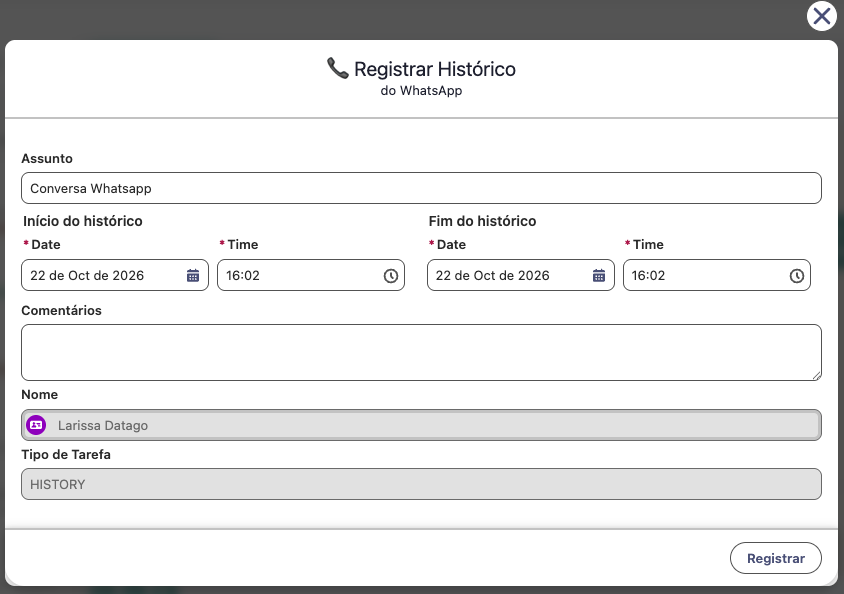
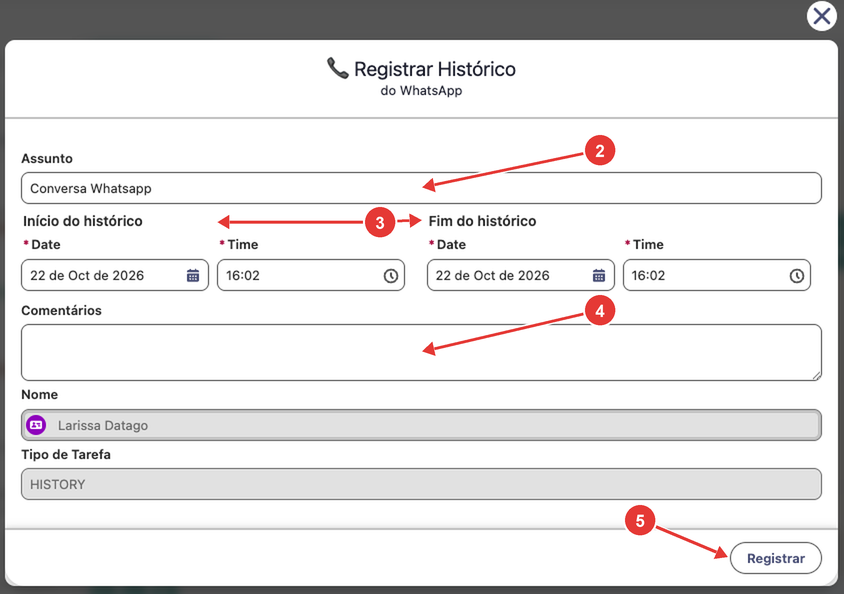
Nitzap Omni: imagens com marcações numeradas e seção de recursos de IA

diff --git a/docs/nitzap/omni.md b/docs/nitzap/omni.md
@@ -1,6 +1,8 @@
 # 02. Nitzap Omni: conversas dentro do Salesforce
 
-O Nitzap Omni é onde você conversa com os clientes pelo WhatsApp sem sair do Salesforce. Ele mostra as conversas de todas as conexões das quais você é membro, indica por qual número cada cliente falou com você e liga cada conversa ao Lead, Contato ou Conta correspondente. Este guia mostra as formas de abrir o Omni, como filtrar e ler a lista de conversas, as opções dentro de uma conversa e as suas preferências.
+O Nitzap Omni é onde você conversa com os clientes pelo WhatsApp sem sair do Salesforce. Ele mostra as conversas de todas as conexões das quais você é membro, indica por qual número cada cliente falou com você e liga cada conversa ao Lead, Contato ou Conta correspondente. Este guia mostra as formas de abrir o Omni, como filtrar e ler a lista de conversas, as opções dentro de uma conversa, os recursos de IA e as suas preferências.
+
+**Como ler as imagens:** os círculos vermelhos numerados apontam para a parte da tela que está sendo explicada. O número no círculo é o mesmo da coluna **Nº** da tabela ou da lista logo abaixo da imagem.
 
 ## Formas de visualizar as conversas
 
@@ -14,76 +16,96 @@ O Omni pode ser usado de três jeitos. As conversas são as mesmas nos três; mu
 
 ### Compacto
 
-Clique em **Nitzap**, no canto inferior esquerdo, para abrir o painel.
+Clique em **Nitzap**, no canto inferior esquerdo (onde a seta aponta), para abrir o painel.
 
 ![Omni compacto na barra de utilitários](images/omni-compacto.png)
 
 ### Ampliado
 
-No painel compacto, clique no botão de ampliar (as duas setas, no topo da lista). Para voltar ao tamanho compacto, clique no mesmo botão, que passa a se chamar **Reduzir painel**. O Nitzap lembra no navegador qual tamanho você usou por último.
+No painel compacto, clique no botão de ampliar, no topo da lista. Para voltar ao tamanho compacto, clique no mesmo botão, que passa a se chamar **Reduzir painel**. O Nitzap lembra no navegador qual tamanho você usou por último.
 
 ![Omni ampliado, com a conversa ao lado da lista](images/omni-ampliado.png)
 
+| Nº | O que é |
+| :---: | --- |
+| 1 | Botão **Ampliar painel / Reduzir painel**. |
+| 2 | A conversa aberta, em uma aba ao lado da lista. O resto do Salesforce continua acessível atrás do painel. |
+
 ### Nitzap Web
 
-Clique no botão **Abrir Nitzap Web** (o quadrado com a seta, no topo da lista) ou abra a aba **Nitzap Web** pelo menu de aplicativos do Salesforce.
+Clique no botão **Abrir Nitzap Web** (nº 3 em [Botões do topo](#nitzap/omni/botoes-do-topo)) ou abra a aba **Nitzap Web** pelo menu de aplicativos do Salesforce.
 
 ![Nitzap Web em tela cheia](images/omni-web.png)
 
-Cada conversa aberta vira uma aba no topo. Clique na aba para trocar de conversa e no **×** para fechá-la. Ficam abertas no máximo 10 abas: ao abrir a 11ª, a que está há mais tempo sem uso fecha sozinha.
+| Nº | O que é |
+| :---: | --- |
+| 1 | **Abas das conversas abertas.** Clique na aba para trocar de conversa e no **×** para fechá-la. Ficam abertas no máximo 10 abas: ao abrir a 11ª, a que está há mais tempo sem uso fecha sozinha. |
+| 2 | Botão **i**: abre os detalhes do cliente (veja abaixo). |
 
-O botão **i**, à direita das abas, aparece quando a conversa está ligada a um Lead, Contato ou Conta. Ele abre o painel **Detalhes** ao lado da conversa, com os dados do registro. Os campos com lápis podem ser editados ali mesmo, sem sair da conversa.
+#### Detalhes do cliente (botão i)
+
+O botão **i** aparece quando a conversa está ligada a um Lead, Contato ou Conta. Ele abre o painel **Detalhes** ao lado da conversa, com os dados do registro.
 
 ![Painel Detalhes com os dados do contato ao lado da conversa](images/omni-web-detalhes.png)
 
-No fim do painel aparecem até 10 Casos, Oportunidades e Tarefas ligados ao registro. Clique em um item para ver os detalhes e em **Voltar ao registro** para retornar. O botão no topo do painel abre o registro completo em uma nova aba, e o **×** fecha o painel.
+| Nº | O que é |
+| :---: | --- |
+| 1 | Botão **i**, que abre e fecha o painel. |
+| 2 | **Lápis:** edita o campo ali mesmo, sem sair da conversa. |
+| 3 | Abre o registro completo em uma nova aba. |
+| 4 | Fecha o painel. |
+
+No fim do painel aparecem até 10 Casos, Oportunidades e Tarefas ligados ao registro. Clique em um item para ver os detalhes e em **Voltar ao registro** para retornar.
 
 ## A lista de conversas
 
 ### Botões do topo
 
-| Botão | O que faz |
-| --- | --- |
-| **Conexões** | Filtra a lista por conexão. Veja [Filtrar por conexão](#nitzap/omni/filtrar-por-conexao). |
-| **Ampliar painel / Reduzir painel** (setas) | Alterna entre o compacto e o ampliado. Só aparece na barra de utilitários. |
-| **Abrir Nitzap Web** (quadrado com seta) | Abre a aba Nitzap Web. Não aparece quando você já está nela. |
-| **Ajuda e Recursos** (?) | Links para as notas de lançamento, a documentação, a configuração de bot e o canal do Nitzap no YouTube. |
-| **Preferências** (controles deslizantes) | Abre as suas preferências. Veja [Preferências](#nitzap/omni/preferencias). |
-| **Chamadas Recebidas** (telefone com seta) | Lista as ligações de WhatsApp recebidas e feitas. Em vermelho, as recusadas ou perdidas; em verde, as atendidas. Clique em uma para abrir a conversa. Não aparece se todas as suas conexões forem oficiais (Coex ou Cloud). |
-| **Meus Contatos** (+) | Abre a lista de contatos para começar uma conversa nova. A aba **Internos** traz os colegas, para o chat interno. |
+![Botões do topo da lista de conversas](images/omni-topo-lista.png)
+
+| Nº | Botão | O que faz |
+| :---: | --- | --- |
+| 1 | **Conexões** | Filtra a lista por conexão. Veja [Filtrar por conexão](#nitzap/omni/filtrar-por-conexao). |
+| 2 | **Ampliar painel / Reduzir painel** | Alterna entre o compacto e o ampliado. Só aparece na barra de utilitários. |
+| 3 | **Abrir Nitzap Web** | Abre a aba Nitzap Web. Não aparece quando você já está nela. |
+| 4 | **Ajuda e Recursos** | Links para as notas de lançamento, a documentação, a configuração de bot e o canal do Nitzap no YouTube. |
+| 5 | **Preferências** | Abre as suas preferências. Veja [Preferências](#nitzap/omni/preferencias). |
+| 6 | **Chamadas Recebidas** | Lista as ligações de WhatsApp recebidas e feitas. Em vermelho, as recusadas ou perdidas; em verde, as atendidas. Clique em uma para abrir a conversa. Não aparece se todas as suas conexões forem oficiais (Coex ou Cloud). |
+| 7 | **Meus Contatos** | Abre a lista de contatos para começar uma conversa nova. A aba **Internos** traz os colegas, para o chat interno. |
+| 8 | **Pesquisar** | Encontra conversas pelo nome, pelo número ou pelo nome da empresa. |
+| 9 | **Arquivadas** | Mostra quantas conversas estão arquivadas. Clique para ver a lista e em **<** para voltar. |
+| 10 | **Todas** | Mostra todas as conversas que não estão arquivadas. |
+| 11 | **Não Lidas** | Mostra só as conversas com mensagens não lidas. O número ao lado é a quantidade dessas conversas. |
 
 ### Filtrar por conexão
 
-Quando você participa de mais de uma conexão, o botão **Conexões** aparece no topo. Passe o mouse ou clique nele e escolha o que quer ver:
-
-- **Todas as conexões:** conversas de todos os números.
-- **Interno:** conversas com a equipe (chat interno entre colegas).
-- **Uma conexão específica:** só as conversas daquele número. Embaixo do nome aparecem o número e o tipo de conexão (**Nitzap** para conexões via QR Code, **Coex (Meta)** ou **Cloud API (Meta)** para as oficiais).
+Quando você participa de mais de uma conexão, o botão **Conexões** aparece no topo. Passe o mouse ou clique nele e escolha o que quer ver.
 
 ![Filtro de conexões](images/omni-filtro-conexoes.png)
 
+| Nº | Opção | O que mostra |
+| :---: | --- | --- |
+| 1 | **Todas as conexões** | Conversas de todos os números. |
+| 2 | **Interno** | Conversas com a equipe (chat interno entre colegas). |
+| 3 | **Uma conexão específica** | Só as conversas daquele número. Embaixo do nome aparecem o número e o tipo de conexão: **Nitzap** para conexões via QR Code, **Coex (Meta)** ou **Cloud API (Meta)** para as oficiais. |
+| 4 | **Bolinha colorida** | Não indica se a conexão está online: é só a cor que identifica a conexão. A mesma cor aparece na etiqueta da conexão em cada conversa da lista (nº 6 em [O que cada conversa mostra](#nitzap/omni/o-que-cada-conversa-mostra)). |
+
 Só dá para escolher uma opção por vez. A escolhida fica marcada com ✓ e o botão passa a mostrar o nome dela. O Nitzap lembra a sua escolha na próxima vez.
-
-A bolinha colorida ao lado de cada conexão não indica se ela está online: é só a cor que identifica a conexão. A mesma cor aparece na etiqueta da conexão em cada conversa da lista.
-
-### Busca, arquivadas e não lidas
-
-- **Pesquisar:** encontra conversas pelo nome, pelo número ou pelo nome da empresa.
-- **Arquivadas** (ícone de caixa com um número): mostra quantas conversas estão arquivadas. Clique para ver a lista e em **<** para voltar.
-- **Todas:** mostra todas as conversas que não estão arquivadas.
-- **Não Lidas:** mostra só as conversas com mensagens não lidas. O número ao lado é a quantidade dessas conversas.
 
 ### O que cada conversa mostra
 
-| Elemento | O que significa |
-| --- | --- |
-| **👤 Nome · 🏢 Empresa** (acima do nome) | O proprietário do registro no Salesforce e a empresa (do Lead, ou da Conta do Contato). Só aparece quando o número está salvo. Dá para esconder nas [Preferências](#nitzap/omni/preferencias). |
-| **Ícone antes do nome** | Tipo do registro ligado ao número: cartão roxo para **Contato**, pessoa laranja para **Lead** e prédio azul para **Conta**. Sem ícone, o número não está salvo no Salesforce. |
-| **Seta verde para baixo** | A última mensagem foi **recebida** do cliente. |
-| **Seta cinza para cima** | A última mensagem foi **enviada** por você e ainda não foi lida. Depois de lida, vira um ✓ azul. |
-| **Etiqueta colorida no canto direito** (ex.: **Niter**) | A **conexão por onde o cliente falou**, ou seja, para qual número ele mandou a mensagem. **Interno** indica uma conversa com um colega. Só aparece quando você participa de mais de uma conexão. |
-| **Número verde** | Quantidade de mensagens não lidas na conversa. |
-| **✓ azul ao lado do nome** | Canal oficial de anúncios do Nitzap. |
+![Elementos de cada conversa na lista](images/omni-conversas-lista.png)
+
+| Nº | Elemento | O que significa |
+| :---: | --- | --- |
+| 1 | **👤 Nome · 🏢 Empresa** | O proprietário do registro no Salesforce e a empresa (do Lead, ou da Conta do Contato). Só aparece quando o número está salvo. Dá para esconder nas [Preferências](#nitzap/omni/preferencias). |
+| 2 | **Cartão roxo** antes do nome | O número está salvo como **Contato**. |
+| 3 | **Pessoa laranja** antes do nome | O número está salvo como **Lead**. Um **prédio azul** indica **Conta**. Sem ícone, o número não está salvo no Salesforce. |
+| 4 | **Seta verde para baixo** | A última mensagem foi **recebida** do cliente. |
+| 5 | **Seta cinza para cima** | A última mensagem foi **enviada** por você e ainda não foi lida. Depois de lida, vira um ✓ azul. |
+| 6 | **Etiqueta colorida** (ex.: **Niter**, **Interno**) | A **conexão por onde o cliente falou**, ou seja, para qual número ele mandou a mensagem. **Interno** indica uma conversa com um colega. Só aparece quando você participa de mais de uma conexão. |
+| 7 | **Número verde** | Quantidade de mensagens não lidas na conversa. |
+| 8 | **✓ azul ao lado do nome** | Canal oficial de anúncios do Nitzap. |
 
 Clicando com o botão direito em uma conversa, você pode **marcar como lida ou não lida**, **fixar** no topo, aplicar **etiquetas** e **arquivar** ou **desarquivar**.
 
@@ -91,13 +113,15 @@ Clicando com o botão direito em uma conversa, você pode **marcar como lida ou 
 
 ### Cabeçalho
 
-- **Foto e nome do cliente:** mostram também quando ele está digitando ou online.
-- **Foto do usuário com seta** (à direita): escolhe **de qual usuário e de qual conexão** é a conversa que você está vendo. Quando mais de uma pessoa já falou com o cliente, cada uma aparece aqui com os números que usou. Não é transferência de atendimento.
-- **Menu ⋮:** mais opções da conversa (tabela abaixo).
+![Cabeçalho e menu de opções da conversa](images/omni-menu-conversa.png)
 
-![Menu de opções da conversa](images/omni-menu-conversa.png)
+| Nº | O que é |
+| :---: | --- |
+| 1 | **Foto e nome do cliente.** Mostram também quando ele está digitando ou online. |
+| 2 | **Foto do usuário com seta:** escolhe **de qual usuário e de qual conexão** é a conversa que você está vendo. Quando mais de uma pessoa já falou com o cliente, cada uma aparece aqui com os números que usou. Não é transferência de atendimento. |
+| 3 | **Menu ⋮:** mais opções da conversa (tabela abaixo). |
 
-| Opção | O que faz |
+| Opção do menu ⋮ | O que faz |
 | --- | --- |
 | **Excluir conversa** | Apaga as mensagens com esse cliente na conexão selecionada, depois de uma confirmação. Só aparece se o administrador liberou a exclusão. |
 | **Copiar Número** | Copia o número do cliente, só com os dígitos. |
@@ -108,14 +132,17 @@ Clicando com o botão direito em uma conversa, você pode **marcar como lida ou 
 
 ### Opções da mensagem
 
-Passe o mouse sobre uma mensagem e clique na seta que aparece no canto do balão. À esquerda, as opções de uma mensagem **recebida**; à direita, as de uma mensagem **enviada**.
+Passe o mouse sobre uma mensagem e clique na seta que aparece no canto do balão.
 
 ![Opções da mensagem recebida e da mensagem enviada](images/omni-opcoes-mensagem.png)
 
-| Opção | Recebida | Enviada | O que faz |
+- **1:** seta de uma mensagem **recebida** e o menu que ela abre.
+- **2:** seta de uma mensagem **enviada** e o menu que ela abre.
+
+| Opção | Recebida (1) | Enviada (2) | O que faz |
 | --- | :---: | :---: | --- |
 | **Lida (data e hora)** | | ✓ | Não é um botão: mostra quando o cliente leu a mensagem. |
-| **✨ IA: Resumir** | ✓ | ✓ | Resume a mensagem (texto, áudio, imagem ou documento). Só aparece se a IA estiver configurada pelo administrador. |
+| **✨ IA: Resumir** | ✓ | ✓ | Resume a mensagem (texto, áudio, imagem ou documento). Veja [Recursos de IA](#nitzap/omni/recursos-de-ia). |
 | **Responder** | ✓ | ✓ | Responde citando a mensagem. |
 | **Encaminhar** | ✓ | ✓ | Seleciona a mensagem para encaminhar. Você pode marcar outras e depois escolher o contato. |
 | **Reagir** | ✓ | | Envia uma reação com emoji. |
@@ -130,71 +157,153 @@ Passe o mouse sobre uma mensagem e clique na seta que aparece no canto do balão
 
 Escreva a mensagem e tecle **Enter** para enviar. Para pular uma linha sem enviar, use **Shift + Enter**. Em grupos, digite **@** para mencionar um participante.
 
-| Botão | O que faz |
-| --- | --- |
-| **+ Arquivos** | Envia um arquivo do computador (clique em **Selecionar** ou arraste) ou um arquivo já salvo no Salesforce (**Do Salesforce**). Limite de 100 MB; vídeos até 40 MB, pelo limite do WhatsApp. |
-| **Emoji** | Insere um emoji no texto. |
-| **Enviar contato** | Envia um cartão de contato. Escolha a conexão e busque o contato. Não aparece nas conexões oficiais nem no chat interno. |
-| **Modo sussurro** (balão) | Escreve uma nota interna na conversa: só a equipe vê, o cliente não recebe. |
-| **Registrar histórico** (telefone) | Cria uma Tarefa no Salesforce com um trecho da conversa. Só aparece quando o número está salvo. |
-| **Templates** (quatro quadrados) | Veja [Templates](#nitzap/omni/templates). |
-| **Agendar envio** (relógio) | Veja [Agendar envio](#nitzap/omni/agendar-envio). |
-| **Microfone** | Grava um áudio. Antes de enviar, dá para ouvir e descartar. |
+![Botões da caixa de mensagem](images/omni-caixa-mensagem.png)
 
-Acima da caixa de mensagem ficam três botões de IA, que só aparecem quando o administrador configurou a IA:
+| Nº | Botão | O que faz |
+| :---: | --- | --- |
+| 1 | **Arquivos** (+) | Envia um arquivo do computador ou do Salesforce. Veja [Arquivos](#nitzap/omni/enviar-arquivos). |
+| 2 | **Emoji** | Insere um emoji no texto. |
+| 3 | **Enviar contato** | Envia um cartão de contato. Veja [Enviar contato](#nitzap/omni/enviar-contato). |
+| 4 | **Modo sussurro** | Escreve uma nota interna na conversa: só a equipe vê, o cliente não recebe. |
+| 5 | **Registrar histórico** | Cria uma Tarefa no Salesforce com um trecho da conversa. Veja [Registrar histórico](#nitzap/omni/registrar-historico). |
+| 6 | **Templates** | Veja [Templates](#nitzap/omni/templates). |
+| 7 | **Agendar envio** | Veja [Agendar envio](#nitzap/omni/agendar-envio). |
+| 8 | **Microfone** | Grava um áudio. Antes de enviar, dá para ouvir e descartar. |
+| 9 | **Enviar** | Envia a mensagem (o mesmo que **Enter**). |
+| 10 | **Gerar com IA** | Escreve uma sugestão de resposta. Veja [Recursos de IA](#nitzap/omni/recursos-de-ia). |
+| 11 | **Correção ortográfica** | Corrige o texto que você está escrevendo. Veja [Recursos de IA](#nitzap/omni/recursos-de-ia). |
+| 12 | **Resumir conversa** | Resume a conversa em um período. Veja [Recursos de IA](#nitzap/omni/recursos-de-ia). |
 
-- **Gerar com IA** (varinha): lê as últimas 10 mensagens e escreve uma sugestão de resposta na caixa. A mensagem não é enviada sozinha: revise antes de enviar.
-- **Correção ortográfica** (✓): corrige o texto que você está escrevendo.
-- **Resumir conversa** (raio): resume a conversa em um período. O resumo pode ser copiado, enviado ao cliente ou salvo como nota interna (sussurro).
+### Enviar arquivos
 
-#### Arquivos
+Clique no **+** (indicado pela seta embaixo). O botão vira um **×**, que fecha o menu.
 
 ![Envio de arquivos](images/omni-anexo.png)
 
-#### Emoji
+| Nº | Opção | O que faz |
+| :---: | --- | --- |
+| 1 | **Do Salesforce** | Envia um arquivo que já está salvo no Salesforce. |
+| 2 | **Selecionar** ou arrastar | Envia um arquivo do computador. Também dá para arrastar o arquivo para dentro da área tracejada. |
+
+O limite é de 100 MB por arquivo; vídeos aceitam até 40 MB, pelo limite do WhatsApp.
+
+### Emoji
+
+Clique no ícone de carinha (indicado pela seta) e escolha o emoji. Use **Procurar** para buscar pelo nome.
 
 ![Seletor de emoji](images/omni-emoji.png)
 
-#### Enviar contato
+### Enviar contato
+
+Clique no ícone de cartão (indicado pela seta embaixo).
 
 ![Enviar contato: conexão e busca do contato](images/omni-enviar-contato.png)
 
-#### Registrar histórico
+| Nº | O que fazer |
+| :---: | --- |
+| 1 | Escolha por qual conexão o contato vai ser enviado. Já vem selecionada a conexão da conversa. |
+| 2 | Busque o contato pelo nome ou número. |
+| 3 | Clique no contato para enviar o cartão. |
 
-Use para guardar no Salesforce um trecho importante da conversa, como uma negociação ou um atendimento por telefone.
+O botão não aparece nas conexões oficiais (Coex e Cloud API) nem no chat interno.
 
-1. Clique no ícone de telefone.
+### Registrar histórico
+
+Use para guardar no Salesforce um trecho importante da conversa, como uma negociação ou um atendimento por telefone. O botão só aparece quando o número está salvo como Lead, Contato ou Conta.
+
+![Registrar Histórico do WhatsApp](images/omni-registrar-historico.png)
+
+1. Clique no ícone de telefone (nº 5 da caixa de mensagem).
 2. Confira o **Assunto** (o padrão é *Conversa Whatsapp*).
 3. Informe o **Início do histórico** e o **Fim do histórico**. O fim precisa ser depois do início.
 4. Se quiser, escreva **Comentários**.
 5. Clique em **Registrar**.
 
-![Registrar Histórico do WhatsApp](images/omni-registrar-historico.png)
+Os números da imagem são os mesmos dos passos. O Nitzap cria uma Tarefa concluída, do tipo **HISTORY**, ligada ao cliente, e abre a Tarefa em seguida.
 
-O Nitzap cria uma Tarefa concluída, do tipo **HISTORY**, ligada ao cliente, e abre a Tarefa em seguida.
+## Recursos de IA
+
+Os recursos de IA só aparecem quando o administrador configurou a IA no Nitzap.
+
+| Recurso | Onde fica | O que faz |
+| --- | --- | --- |
+| **Gerar com IA** | Botão nº 10 da caixa de mensagem | Escreve uma sugestão de resposta. |
+| **Correção ortográfica** | Botão nº 11 da caixa de mensagem | Corrige o texto que você está escrevendo. |
+| **Resumir conversa** | Botão nº 12 da caixa de mensagem | Resume a conversa em um período. |
+| **IA: Resumir** | [Opções da mensagem](#nitzap/omni/opcoes-da-mensagem) | Resume uma mensagem só. |
+| **Transcrição de áudio** | Embaixo de cada áudio | Transforma o áudio em texto. |
+
+### Gerar com IA
+
+Clique na varinha. A IA lê as últimas 10 mensagens da conversa, inclusive imagens e áudios, e escreve uma sugestão de resposta na caixa de mensagem.
+
+![Botão Gerar com IA](images/ia-gerar.png)
+
+A mensagem **não é enviada sozinha**: leia, ajuste se precisar e envie.
+
+### Correção ortográfica
+
+Escreva a mensagem e clique no ✓. A IA corrige a ortografia do texto que está na caixa. Com a caixa vazia, o botão não faz nada.
+
+![Botão Correção ortográfica](images/ia-correcao.png)
+
+### Resumir conversa
+
+Clique no raio para abrir a janela **Resumir Conversa**.
+
+![Janela Resumir Conversa](images/ia-resumir-janela.png)
+
+| Nº | O que fazer |
+| :---: | --- |
+| 1 | **Início:** data e hora a partir das quais a conversa entra no resumo. O padrão é hoje, à meia-noite. |
+| 2 | **Fim:** data e hora finais. O padrão é agora. |
+| 3 | O resumo gerado: principais assuntos, decisões, pendências e tom da conversa. |
+| 4 | **Copiar:** copia o resumo. |
+| 5 | **Enviar:** manda o resumo para o cliente, como mensagem. |
+| 6 | **Sussurrar:** salva o resumo na conversa como nota interna. Só a equipe vê. |
+
+Um resumo sussurrado fica na conversa com fundo amarelo, para quem assumir o atendimento depois:
+
+![Resumo salvo como nota interna (sussurro)](images/ia-resumo-sussurro.png)
+
+- **1:** botão **Resumir conversa**.
+- **2:** o resumo salvo como sussurro. O cliente não recebe.
+
+### Transcrição de áudio
+
+A IA transforma os áudios em texto, que aparece entre aspas embaixo do áudio (indicado pela seta).
+
+![Transcrição de um áudio](images/ia-transcricao.png)
+
+Há dois jeitos de usar:
+
+- **Automático:** ligue a preferência **IA: Transcrever e exibir automaticamente áudios** (nº 11 em [Preferências](#nitzap/omni/preferencias)). Todo áudio é transcrito sozinho. Se o administrador deixou a transcrição obrigatória, ela já vem ligada.
+- **Um áudio por vez:** com a preferência desligada, clique em **Transcrever**, embaixo do áudio que você quer ler.
+
+A transcrição fica salva na mensagem: quem abrir a conversa depois vê o texto sem transcrever de novo.
 
 ## Preferências
 
-Clique no botão **Preferências** (controles deslizantes), no topo da lista de conversas. As preferências são suas: valem em qualquer computador e não mudam nada para os outros usuários.
+Clique no botão **Preferências** (nº 5 em [Botões do topo](#nitzap/omni/botoes-do-topo)). As preferências são suas: valem em qualquer computador e não mudam nada para os outros usuários.
 
 ![Preferências do Omni](images/omni-preferencias.png)
 
-| Preferência | O que faz |
-| --- | --- |
-| **🎨 Cor do meu balão** | Muda a cor dos balões das mensagens que você envia. Nas conversas que já estavam abertas, clique em **Atualizar agora** para aplicar. |
-| **Silenciar todos os grupos** | Desliga o som, a notificação e o alerta de mensagens novas em grupos. O contador de não lidas continua funcionando. |
-| **Silenciar todos os chats individuais** | O mesmo, para as conversas individuais. |
-| **Assinar mensagens com meu nome** | Coloca o seu primeiro nome em negrito no início de cada mensagem enviada (ex.: **#Thiago:**). |
-| **Exibir proprietário** | Mostra o 👤 proprietário do registro acima do nome de cada conversa. |
-| **Exibir nome da empresa** | Mostra a 🏢 empresa acima do nome de cada conversa. |
-| **Marcar como lida apenas ao responder** | Ligada: abrir a conversa não zera as não lidas, só responder. Desligada: abrir a conversa já marca como lida. |
-| **Abrir conversas em uma nova guia do navegador** | No modo compacto, quando o clique na conversa abre o registro do cliente, ele abre em uma nova guia do navegador. |
-| **Habilitar filtros de atendimento** | Troca o botão **Não Lidas** pelos filtros de atendimento. Veja [Filtros de atendimento](#nitzap/omni/filtros-de-atendimento). |
-| **Receber notificações apenas de quem eu estiver atendendo** | Só avisa sobre conversas cujo atendimento aberto é seu. |
-| **IA: Transcrever e exibir automaticamente áudios** | Transcreve os áudios e mostra o texto embaixo de cada um. Depende da IA configurada. Se o administrador deixou obrigatório, aparece **Ativado pelo administrador** e não dá para desligar. |
+| Nº | Preferência | O que faz |
+| :---: | --- | --- |
+| 1 | **🎨 Cor do meu balão** | Muda a cor dos balões das mensagens que você envia. Nas conversas que já estavam abertas, clique em **Atualizar agora** para aplicar. |
+| 2 | **Silenciar todos os grupos** | Desliga o som, a notificação e o alerta de mensagens novas em grupos. O contador de não lidas continua funcionando. |
+| 3 | **Silenciar todos os chats individuais** | O mesmo, para as conversas individuais. |
+| 4 | **Assinar mensagens com meu nome** | Coloca o seu primeiro nome em negrito no início de cada mensagem enviada (ex.: **#Thiago:**). |
+| 5 | **Exibir proprietário** | Mostra o 👤 proprietário do registro acima do nome de cada conversa. |
+| 6 | **Exibir nome da empresa** | Mostra a 🏢 empresa acima do nome de cada conversa. |
+| 7 | **Marcar como lida apenas ao responder** | Ligada: abrir a conversa não zera as não lidas, só responder. Desligada: abrir a conversa já marca como lida. |
+| 8 | **Abrir conversas em uma nova guia do navegador** | No modo compacto, quando o clique na conversa abre o registro do cliente, ele abre em uma nova guia do navegador. |
+| 9 | **Habilitar filtros de atendimento** | Troca o botão **Não Lidas** pelos filtros de atendimento. Veja [Filtros de atendimento](#nitzap/omni/filtros-de-atendimento). |
+| 10 | **Receber notificações apenas de quem eu estiver atendendo** | Só avisa sobre conversas cujo atendimento aberto é seu. |
+| 11 | **IA: Transcrever e exibir automaticamente áudios** | Transcreve os áudios sozinho. Veja [Transcrição de áudio](#nitzap/omni/transcricao-de-audio). Se o administrador deixou obrigatório, aparece **Ativado pelo administrador** e não dá para desligar. |
 
 Ao mudar **Assinar mensagens com meu nome**, **IA: Transcrever** ou **Habilitar filtros de atendimento**, o Nitzap pede confirmação e recarrega a página.
 
-Com **Exibir proprietário** e **Exibir nome da empresa** desligados, a lista fica mais enxuta:
+Veja a diferença na lista com **Exibir proprietário** e **Exibir nome da empresa** ligados e desligados:
 
-![Lista de conversas sem proprietário e empresa](images/omni-compacto-sem-proprietario.png)
+![Lista de conversas com e sem proprietário e empresa](images/omni-proprietario-comparacao.png)
